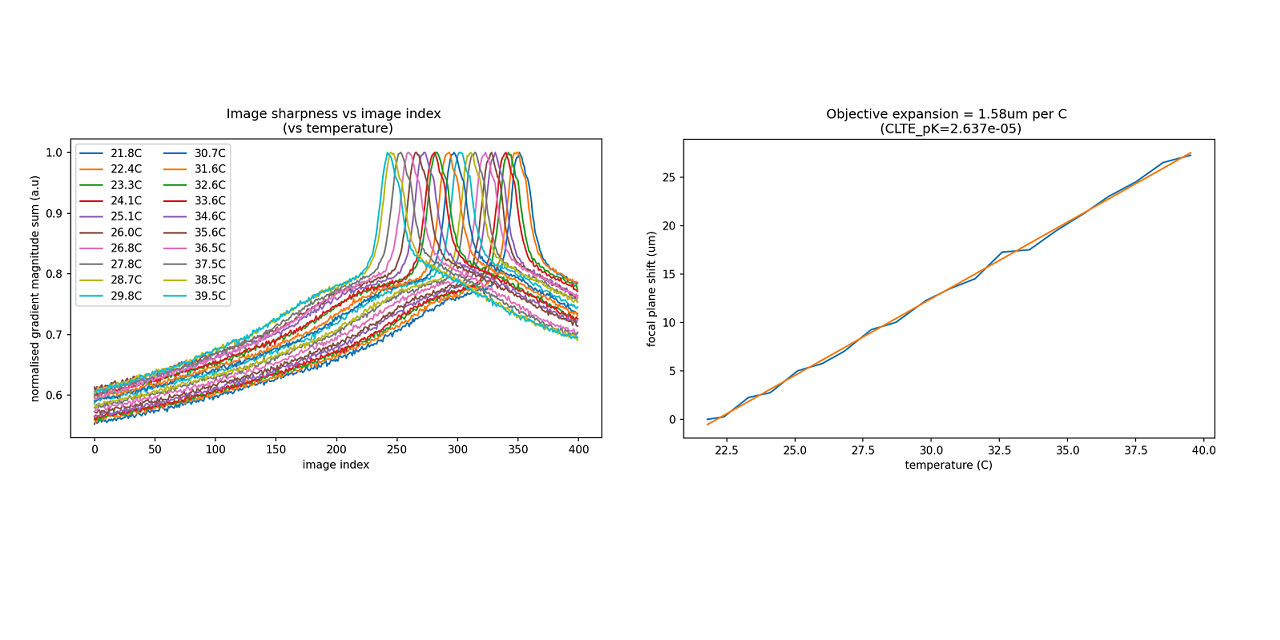
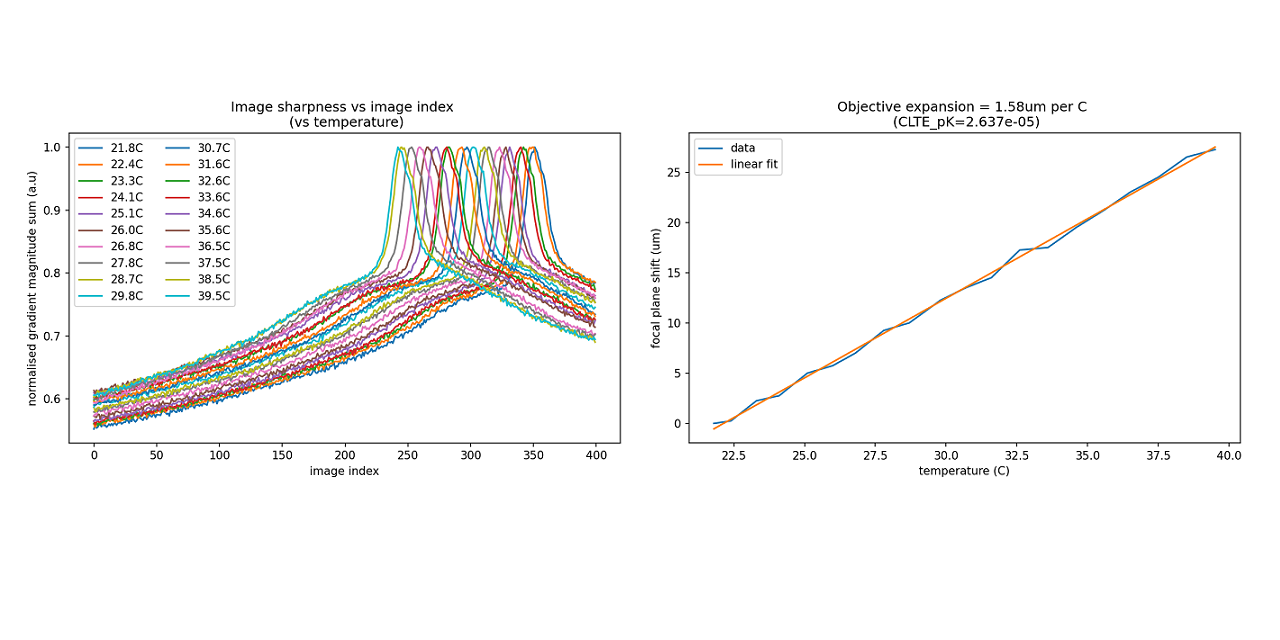
Add files via upload
Added legend to linear plot.

diff --git a/analysis.py b/analysis.py
@@ -71,8 +71,9 @@ ax2.set_title('Objective expansion = %0.2fum per C \n (CLTE_pK=%0.3e)'%(
     popt[0], CLTE_pK))
 ax2.set_xlabel('temperature (C)')
 ax2.set_ylabel('focal plane shift (um)')
-ax2.plot(t_actual_C, focal_plane_shift_um)
-ax2.plot(t_actual_C, fitted_focal_plane_shift_um)
+ax2.plot(t_actual_C, focal_plane_shift_um, label='data')
+ax2.plot(t_actual_C, fitted_focal_plane_shift_um, label='linear fit')
+ax2.legend(loc="upper left")
 # Format, save and show:
 fig.set_size_inches(8.5, 11)
 plt.subplots_adjust(
